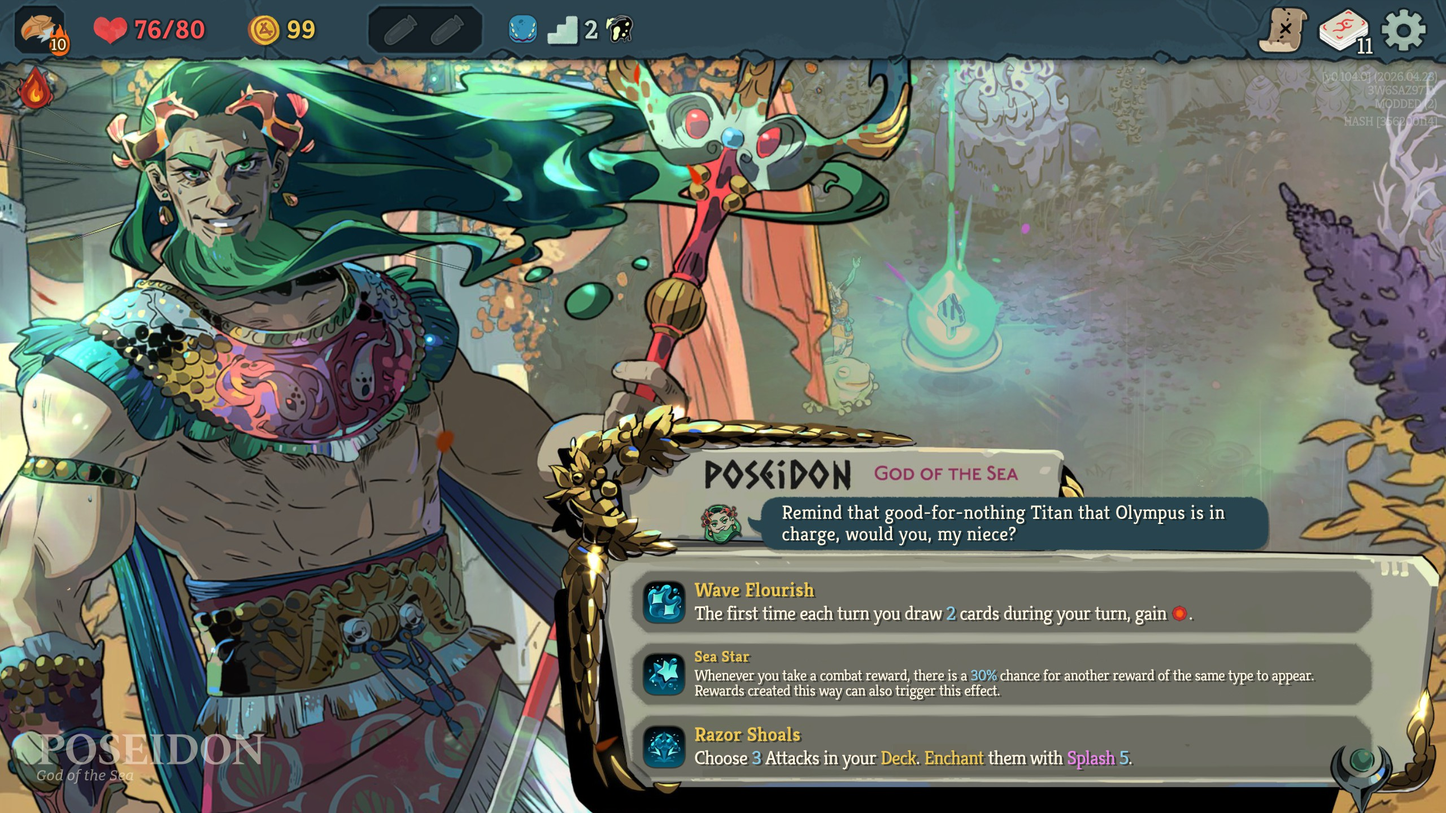
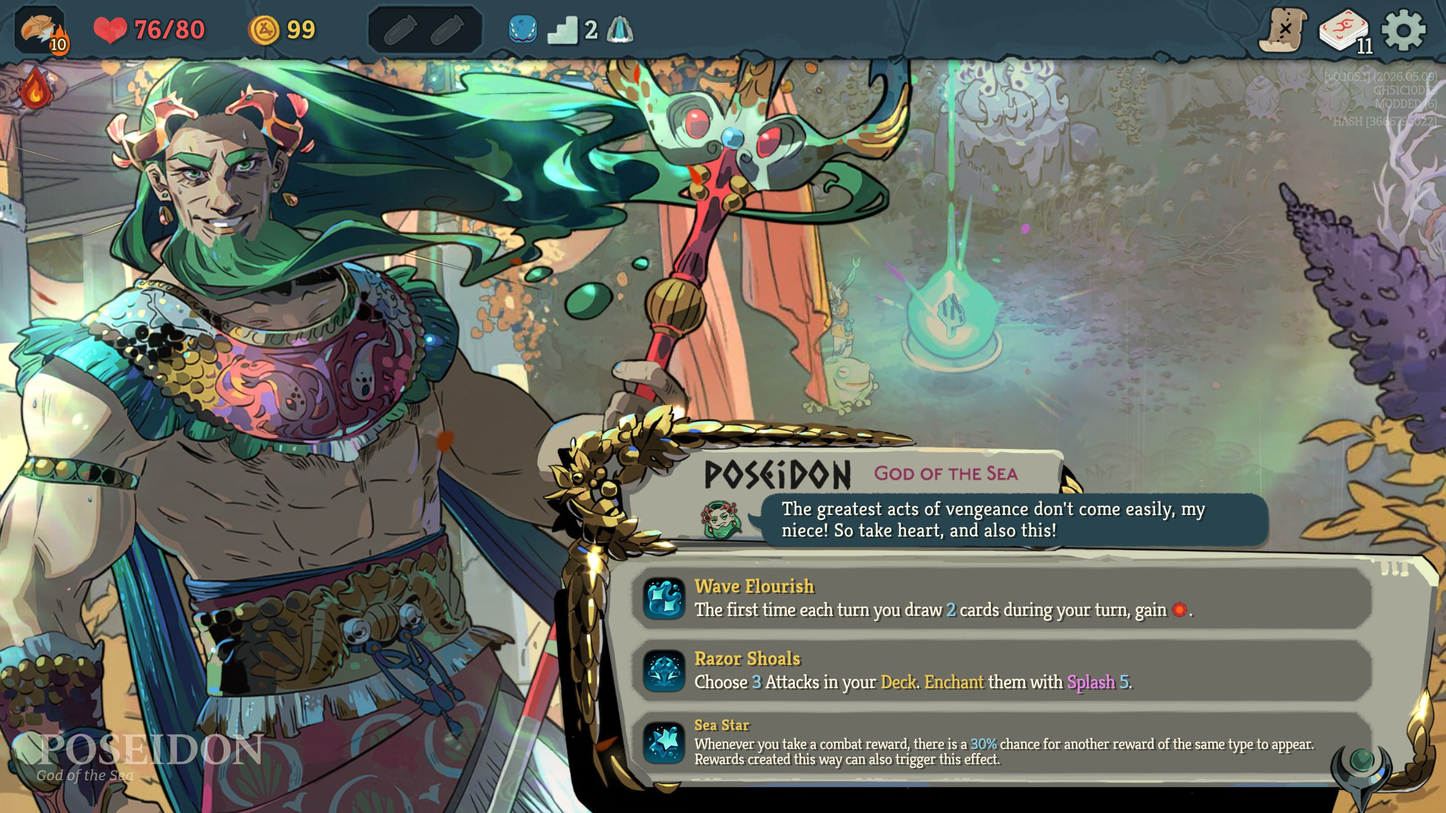
Improve the Ancient Scene.

diff --git a/PoseidonAncientCode/Patches/PoseidonAncient_AdjustLayout_Patch.cs b/PoseidonAncientCode/Patches/PoseidonAncient_AdjustLayout_Patch.cs
@@ -1,4 +1,5 @@
-using System.Runtime.CompilerServices;
+using System.Reflection.Emit;
+using System.Runtime.CompilerServices;
 using Godot;
 using HarmonyLib;
 using MegaCrit.Sts2.Core.Models;
@@ -7,21 +8,30 @@ using MegaCrit.Sts2.Core.Nodes.Events;
 namespace PoseidonAncient.PoseidonAncientCode.Patches;
 
 [HarmonyPatch(typeof(NAncientEventLayout), "SetDialogueLineAndAnimate")]
-public static class NAncientEventLayout_SetDialogueLineAndAnimate_Patch
+public static class PoseidonAncient_AdjustLayout_Patch
 {
     private const float XOffset = 185f;
+    private const float YOffset = -5f;
+    private const float ScaleAmount = 1.0f;
+    private const float OriginalSpacing = 10f;
 
     private static readonly ConditionalWeakTable<NAncientEventLayout, Box> State = new();
 
+    private static bool IsTargetEvent(NAncientEventLayout layout)
+    {
+        var ancientEvent = Traverse.Create(layout)
+            .Field("_ancientEvent")
+            .GetValue<AncientEventModel>();
+
+        return ancientEvent.Id == ModelDb.GetId<Ancients.PoseidonAncient>();
+    }
+
     static void Prefix(NAncientEventLayout __instance)
     {
-        var t = Traverse.Create(__instance);
-
-        var ancientEvent = t.Field("_ancientEvent").GetValue<AncientEventModel>();
-        if (ancientEvent.Id != ModelDb.GetId<Ancients.PoseidonAncient>())
-        {
+        if (!IsTargetEvent(__instance))
             return;
-        }
+
+        var t = Traverse.Create(__instance);
 
         var content = t.Field("_content").GetValue<VBoxContainer>();
         var contentContainer = t.Field("_contentContainer").GetValue<Control>();
@@ -31,54 +41,66 @@ public static class NAncientEventLayout_SetDialogueLineAndAnimate_Patch
 
         if (!State.TryGetValue(__instance, out var state))
         {
-            state = new Box(
-                content.Position.X,
-                contentContainer.Size.X,
-                contentContainer.CustomMinimumSize.X,
-                content.CustomMinimumSize.X
-            );
-
+            state = new Box(content.Position.X, contentContainer.Size.X);
             State.Add(__instance, state);
         }
-
-        float extraWidth = Mathf.Abs(XOffset) * 2f;
-
-        contentContainer.ClipContents = false;
 
         content.Position = new Vector2(
             state.BaseContentX + XOffset,
             content.Position.Y
         );
 
+        content.Scale = new Vector2(ScaleAmount, ScaleAmount);
+
+        contentContainer.ClipContents = false;
+
+        float extraWidth = Mathf.Abs(XOffset) * 2f;
+
         contentContainer.Size = new Vector2(
             state.BaseContainerWidth + extraWidth,
             contentContainer.Size.Y
         );
+    }
 
-        contentContainer.CustomMinimumSize = new Vector2(
-            state.BaseContainerMinWidth + extraWidth,
-            contentContainer.CustomMinimumSize.Y
-        );
+    private static float GetSpacingForEvent(NAncientEventLayout layout, float originalSpacing)
+    {
+        if (!IsTargetEvent(layout))
+            return originalSpacing;
 
-        content.CustomMinimumSize = new Vector2(
-            state.BaseContentMinWidth + extraWidth,
-            content.CustomMinimumSize.Y
-        );
+        return originalSpacing - YOffset;
+    }
+
+    static IEnumerable<CodeInstruction> Transpiler(IEnumerable<CodeInstruction> instructions)
+    {
+        foreach (var code in instructions)
+        {
+            if (code.opcode == OpCodes.Ldc_R4 &&
+                code.operand is float f &&
+                f == OriginalSpacing)
+            {
+                yield return new CodeInstruction(OpCodes.Ldarg_0);
+                yield return new CodeInstruction(OpCodes.Ldc_R4, OriginalSpacing);
+                yield return CodeInstruction.Call(
+                    typeof(PoseidonAncient_AdjustLayout_Patch),
+                    nameof(GetSpacingForEvent)
+                );
+            }
+            else
+            {
+                yield return code;
+            }
+        }
     }
 
     private sealed class Box
     {
-        public readonly float BaseContainerMinWidth;
         public readonly float BaseContainerWidth;
-        public readonly float BaseContentMinWidth;
         public readonly float BaseContentX;
 
-        public Box(float contentX, float containerWidth, float containerMinWidth, float contentMinWidth)
+        public Box(float x, float width)
         {
-            BaseContentX = contentX;
-            BaseContainerWidth = containerWidth;
-            BaseContainerMinWidth = containerMinWidth;
-            BaseContentMinWidth = contentMinWidth;
+            BaseContentX = x;
+            BaseContainerWidth = width;
         }
     }
 }
